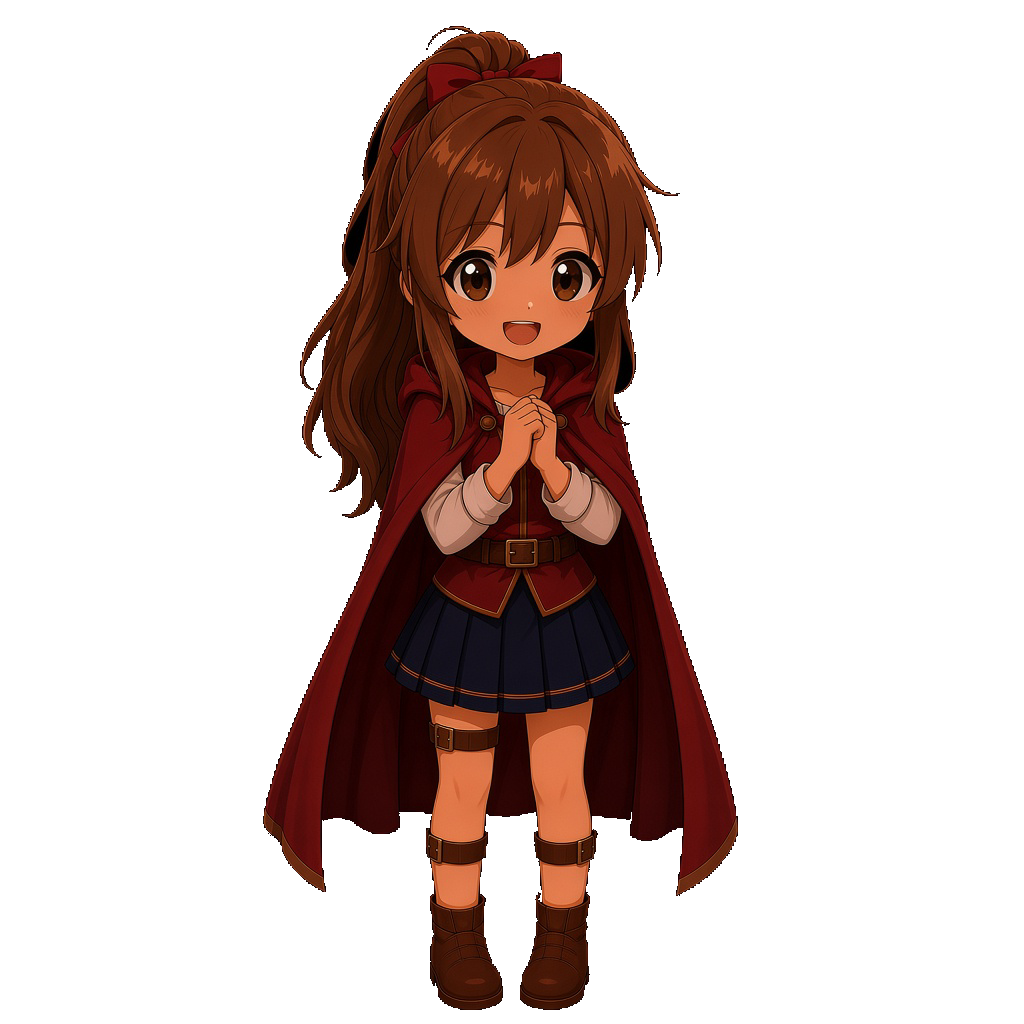
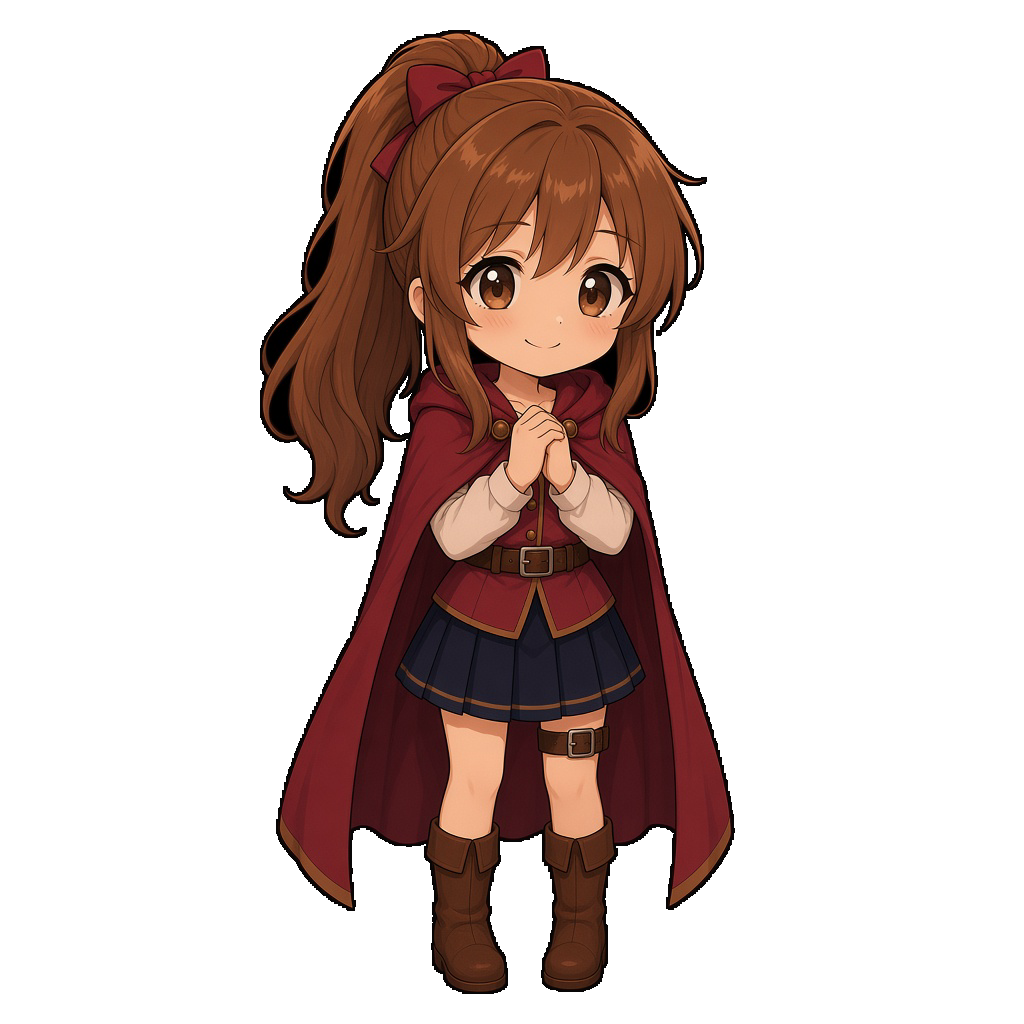
Repaint the selection token in the same soft colors.

Changed region(s): [[0.25, 0.0, 0.7188, 1.0]]

diff --git a/index.html b/index.html
@@ -6306,7 +6306,7 @@
         name: "戦士",
         blurb: "剣と盾の近接職。パリィで受け流し、反撃で押し切る。",
         stand: "girl-front.png?v=11",
-        chibi: "job-girl.png?v=13",
+        chibi: "job-girl.png?v=14",
         action: "girl-action.jpg?v=5",
         battle: "girl-battle.png?v=33",
         battleRatio: "3 / 4",
@@ -6688,7 +6688,7 @@
       if (name === "出来事:キャンプ") return { src: "path-rest.jpg?v=3", label: "休憩" };
       if (name === "出来事:お店") return { src: "path-shop.jpg?v=6", label: "お店" };
       if (name === "出来事:物乞い") return { src: "path-beggar.jpg?v=4", label: "物乞い" };
-      if (name === "出来事:ジョブ") return { src: "job-girl.png?v=13", label: "ジョブ" };
+      if (name === "出来事:ジョブ") return { src: "job-girl.png?v=14", label: "ジョブ" };
       if (name === DUNGEON.boss) return { src: "enemy-minotaur.png?v=4", label: "ボス", boss: true };
       return { src: "path-fight.jpg?v=5", label: "戦闘" };
     }
@@ -10018,7 +10018,7 @@
               ${sheetFig("girl-action.jpg?v=5", "戦士の一枚絵", "land-ref", "span-2")}
             </div>
             <div class="ref-grid">
-              ${sheetFig("job-girl.png?v=13", "戦士の選択コマ（かわいい）", "cut-ref")}
+              ${sheetFig("job-girl.png?v=14", "戦士の選択コマ（かわいい）", "cut-ref")}
             </div>
             <h3>タイトル</h3>
             ${sheetBanner("title-key.jpg?v=2", "タイトル", "左が戦士、右がモンスター軍団。")}
